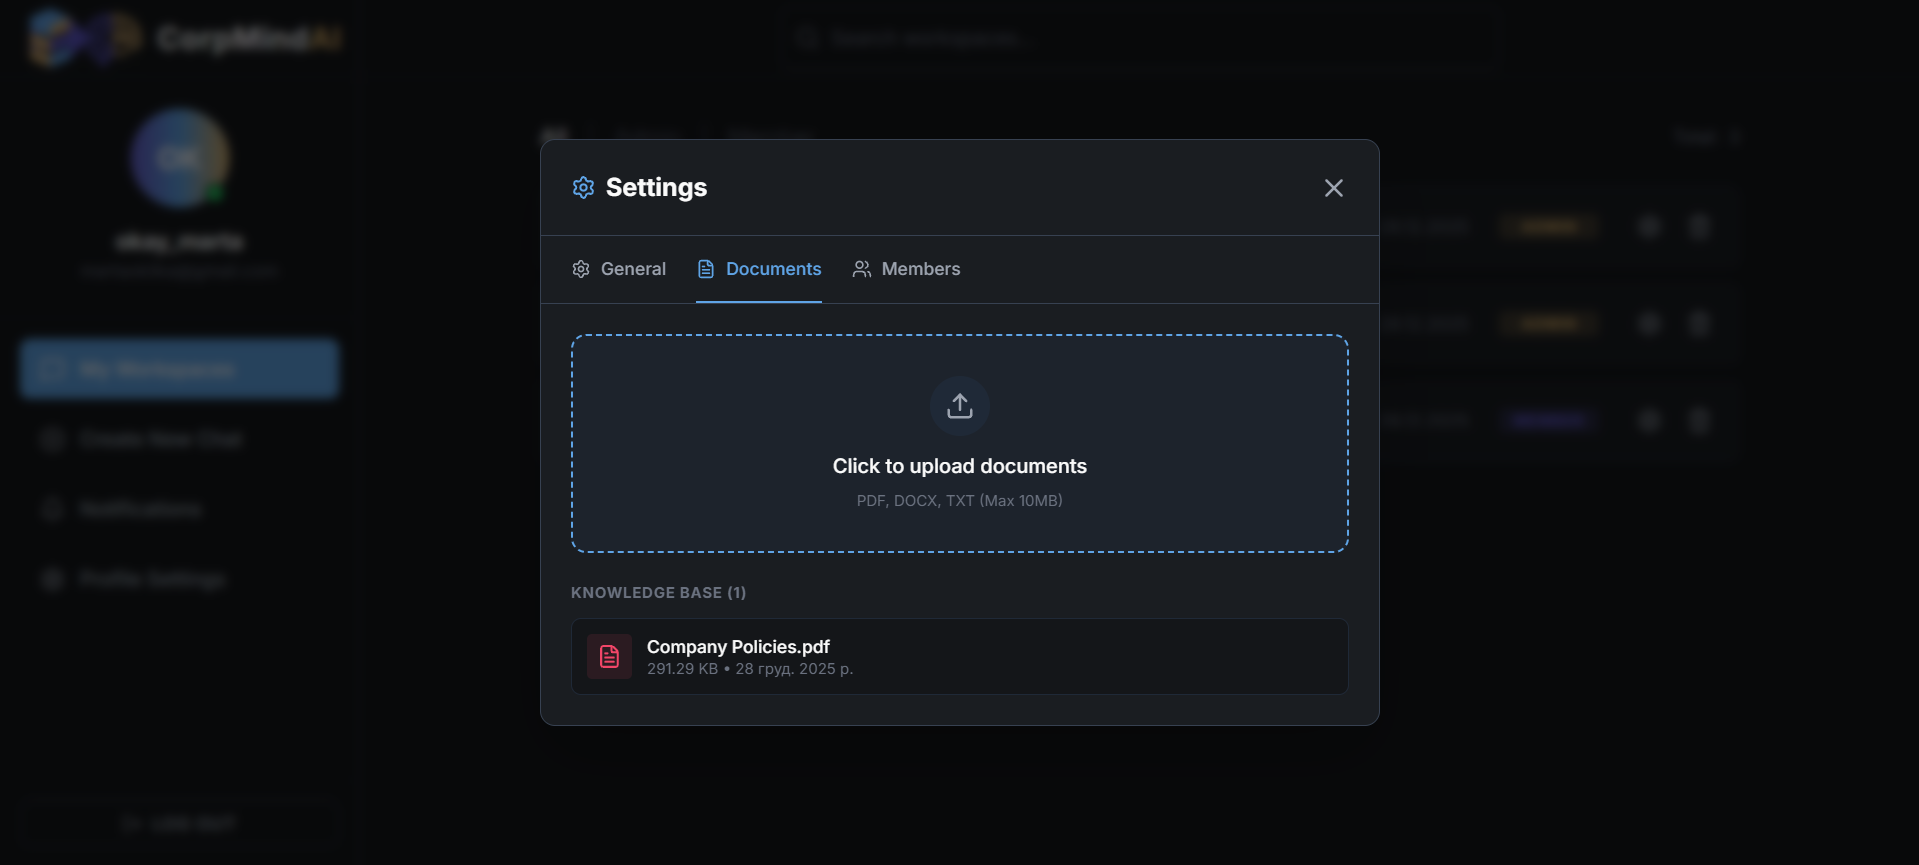
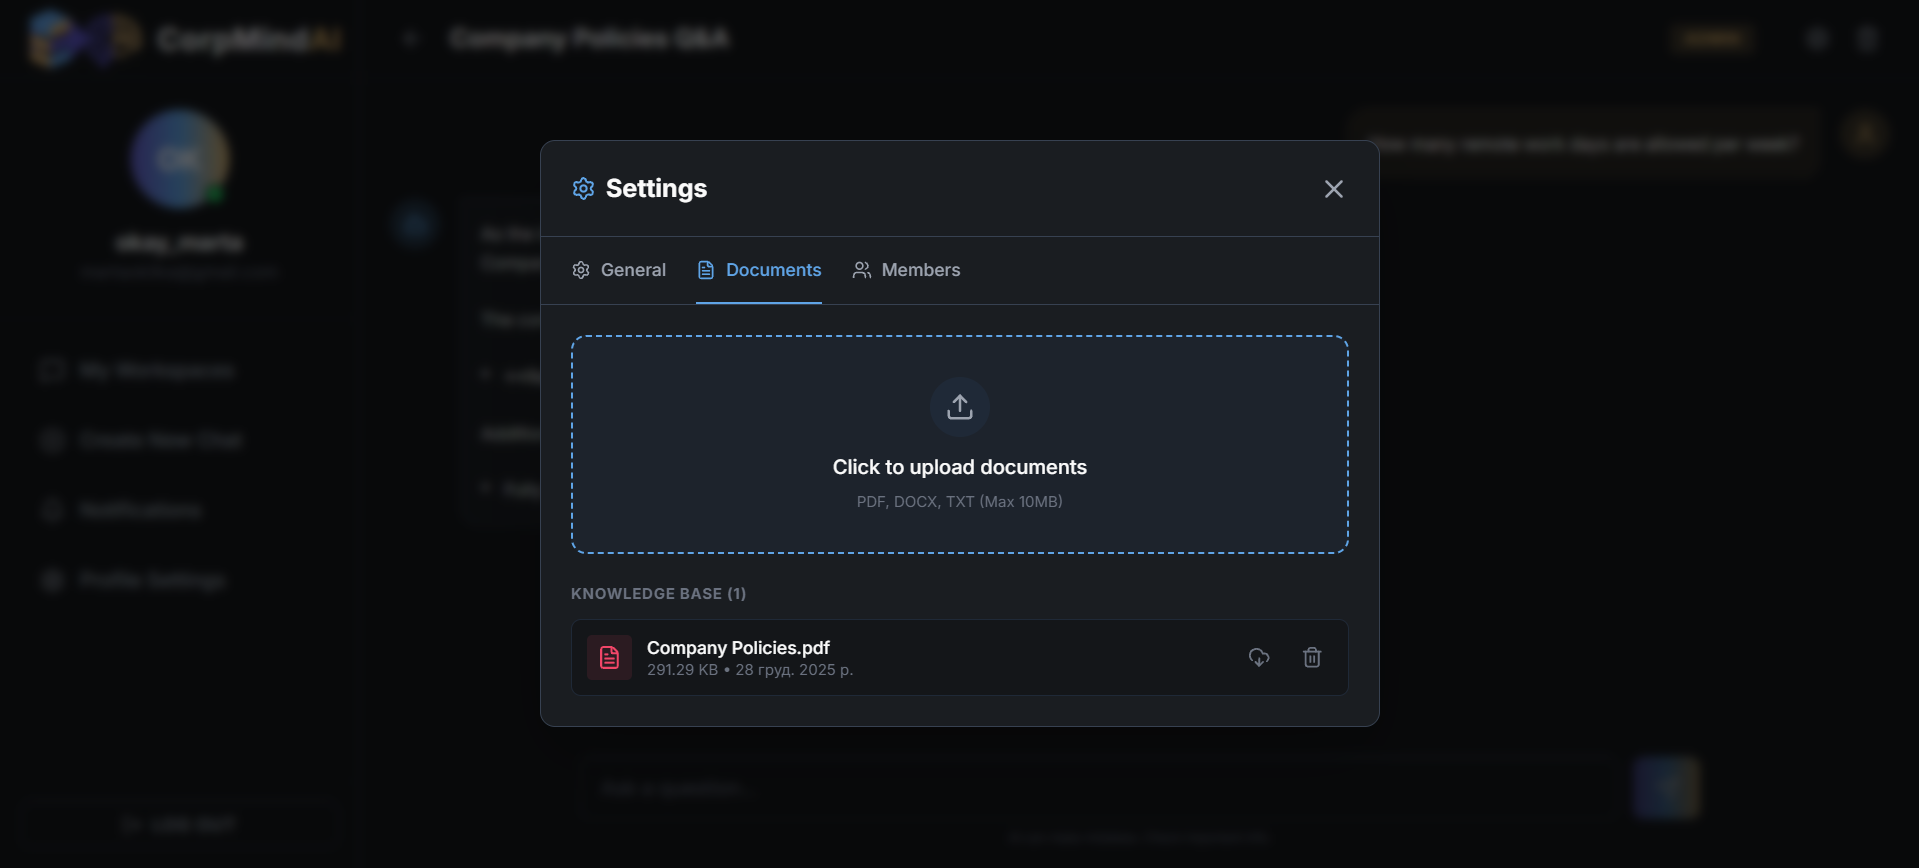
fix: secure file access and update document UI

diff --git a/client/src/features/documents/components/FileItem.jsx b/client/src/features/documents/components/FileItem.jsx
@@ -1,7 +1,9 @@
-import { FileText, File, Trash2 } from 'lucide-react';
+import { FileText, File, Trash2, DownloadCloud } from 'lucide-react';
 
 const FileItem = ({ file, onDelete, canDelete }) => {
-	// Форматування розміру файлу
+	// Отримуємо токен для безпечного посилання
+	const token = localStorage.getItem('token');
+
 	const formatSize = (bytes) => {
 		if (bytes === 0) return '0 B';
 		const k = 1024;
@@ -10,7 +12,6 @@ const FileItem = ({ file, onDelete, canDelete }) => {
 		return parseFloat((bytes / Math.pow(k, i)).toFixed(2)) + ' ' + sizes[i];
 	};
 
-	// Форматування дати
 	const formatDate = (dateString) => {
 		return new Date(dateString).toLocaleDateString(undefined, {
 			year: 'numeric',
@@ -21,10 +22,14 @@ const FileItem = ({ file, onDelete, canDelete }) => {
 
 	const isPdf = file.file_type?.includes('pdf');
 
+	// Формуємо безпечне ім'я файлу та посилання
+	const filename = file.filepath.split(/[/\\]/).pop();
+	const secureUrl = `/api/documents/file/${filename}?token=${token}`;
+
 	return (
 		<div className="flex items-center justify-between bg-dark p-3 rounded-lg border border-gray-800 hover:border-gray-600 transition-colors group">
+			{/* Ліва частина: Іконка + Текст */}
 			<div className="flex items-center gap-3 overflow-hidden">
-				{/* Іконка типу файлу */}
 				<div
 					className={`p-2 rounded ${
 						isPdf
@@ -35,30 +40,46 @@ const FileItem = ({ file, onDelete, canDelete }) => {
 					{isPdf ? <FileText size={20} /> : <File size={20} />}
 				</div>
 
-				{/* Інфо про файл */}
-				<div className="min-w-0">
-					<p
-						className="text-light text-sm font-medium truncate"
+				<div className="min-w-0 flex flex-col">
+					<a
+						href={secureUrl}
+						target="_blank"
+						rel="noopener noreferrer"
+						className="text-light text-sm font-medium truncate hover:text-blue hover:underline cursor-pointer"
 						title={file.filename}
 					>
 						{file.filename}
-					</p>
+					</a>
 					<p className="text-xs text-gray-500">
 						{formatSize(file.size)} • {formatDate(file.uploaded_at)}
 					</p>
 				</div>
 			</div>
 
-			{/* Кнопка видалення (тільки якщо є права) */}
-			{canDelete && (
-				<button
-					onClick={() => onDelete(file.id)}
-					className="p-2 text-gray-500 hover:text-uiError hover:bg-uiError/10 rounded-full transition-colors opacity-0 group-hover:opacity-100"
-					title="Delete document"
+			{/* Права частина: Кнопки дій */}
+			<div className="flex items-center gap-2">
+				{/* Кнопка скачування */}
+				<a
+					href={secureUrl}
+					target="_blank"
+					rel="noopener noreferrer"
+					className="p-2 text-gray-500 hover:text-light hover:bg-gray-700 rounded-full transition-colors"
+					title="Download"
 				>
-					<Trash2 size={18} />
-				</button>
-			)}
+					<DownloadCloud size={18} />
+				</a>
+
+				{/* Кнопка видалення */}
+				{canDelete && (
+					<button
+						onClick={() => onDelete(file.id)}
+						className="p-2 text-gray-500 hover:text-uiError hover:bg-uiError/10 rounded-full transition-colors"
+						title="Delete document"
+					>
+						<Trash2 size={18} />
+					</button>
+				)}
+			</div>
 		</div>
 	);
 };

diff --git a/server/controllers/documentController.js b/server/controllers/documentController.js
@@ -2,6 +2,7 @@ const pool = require('../config/db');
 const { processDocument } = require('../services/ragService');
 const { chromaClient } = require('../config/ai');
 const fs = require('fs');
+const path = require('path');
 
 const uploadDocument = async (req, res) => {
 	let newDocId = null;
@@ -159,4 +160,52 @@ const deleteDocument = async (req, res) => {
 	}
 };
 
-module.exports = { uploadDocument, getDocuments, deleteDocument };
+const serveDocument = async (req, res) => {
+	try {
+		const { filename } = req.params;
+		const userId = req.user.id;
+
+		// 1. Шукаємо документ у таблиці documents
+		const docResult = await pool.query(
+			'SELECT * FROM documents WHERE filepath LIKE $1',
+			[`%${filename}`]
+		);
+
+		if (docResult.rows.length === 0) {
+			return res.status(404).json('Document not found');
+		}
+
+		const doc = docResult.rows[0];
+
+		// 2. Перевірка доступу
+		const memberCheck = await pool.query(
+			'SELECT * FROM workspace_members WHERE workspace_id = $1 AND user_id = $2',
+			[doc.workspace_id, userId]
+		);
+
+		if (memberCheck.rows.length === 0) {
+			return res
+				.status(403)
+				.json('Access Denied: You are not a member of this workspace');
+		}
+
+		// 3. Віддаємо файл
+		const absolutePath = path.join(__dirname, '../uploads', filename);
+
+		if (fs.existsSync(absolutePath)) {
+			res.sendFile(absolutePath);
+		} else {
+			res.status(404).json('File physically not found on server');
+		}
+	} catch (err) {
+		console.error(err);
+		res.status(500).send('Server Error');
+	}
+};
+
+module.exports = {
+	uploadDocument,
+	getDocuments,
+	deleteDocument,
+	serveDocument,
+};

diff --git a/server/controllers/userController.js b/server/controllers/userController.js
@@ -88,4 +88,37 @@ const deleteAccount = async (req, res) => {
 	}
 };
 
-module.exports = { updateProfile, deleteAccount };
+const serveAvatar = async (req, res) => {
+	try {
+		const { filename } = req.params;
+
+		// 1. Перевіряємо, чи цей файл дійсно використовується як аватар кимось із юзерів
+		const avatarCheck = await pool.query(
+			'SELECT id FROM users WHERE avatar_url LIKE $1',
+			[`%${filename}`]
+		);
+
+		if (avatarCheck.rows.length === 0) {
+			return res.status(404).json('Avatar not found');
+		}
+
+		// 2. Віддаємо файл (AuthMiddleware вже пройшов перевірку токена)
+		const absolutePath = path.join(__dirname, '../uploads', filename);
+
+		if (fs.existsSync(absolutePath)) {
+			res.sendFile(absolutePath);
+		} else {
+			// Якщо у юзера посилання є, а файлу немає - повертаємо дефолтну заглушку або 404
+			res.status(404).json('Image not found');
+		}
+	} catch (err) {
+		console.error(err);
+		res.status(500).send('Server Error');
+	}
+};
+
+module.exports = {
+	updateProfile,
+	deleteAccount,
+	serveAvatar,
+};

diff --git a/client/src/features/profile/components/ProfileSettingsModal.jsx b/client/src/features/profile/components/ProfileSettingsModal.jsx
@@ -162,7 +162,19 @@ const ProfileSettingsModal = ({ isOpen, onClose }) => {
 										>
 											{preview ? (
 												<img
-													src={preview}
+													src={
+														preview.startsWith(
+															'blob:'
+														)
+															? preview
+															: `/api/users/avatar/${preview
+																	.split(
+																		/[/\\]/
+																	)
+																	.pop()}?token=${localStorage.getItem(
+																	'token'
+															  )}`
+													}
 													alt="Avatar"
 													className="w-24 h-24 rounded-full object-cover border-4 border-dark2 shadow-lg group-hover:opacity-75 transition-opacity"
 												/>

diff --git a/client/src/components/ui/Avatar.jsx b/client/src/components/ui/Avatar.jsx
@@ -1,10 +1,22 @@
 const Avatar = ({ url, name, size = 'w-10 h-10', textSize = 'text-sm' }) => {
+	// 1. Отримуємо токен
+	const token = localStorage.getItem('token');
+
 	if (url) {
+		// 2. Витягуємо ім'я файлу зі шляху
+		const filename = url.split(/[/\\]/).pop();
+
+		// 3. Формуємо новий URL
+		const secureUrl = `/api/users/avatar/${filename}?token=${token}`;
+
 		return (
 			<img
-				src={url}
+				src={secureUrl}
 				alt={name || 'User'}
 				className={`${size} rounded-full object-cover border border-gray-700`}
+				onError={(e) => {
+					e.target.style.display = 'none';
+				}}
 			/>
 		);
 	}

diff --git a/server/index.js b/server/index.js
@@ -19,8 +19,6 @@ app.use('/api/chat', require('./routes/chat.routes'));
 app.use('/api/invitations', require('./routes/invitation.routes'));
 app.use('/api/users', require('./routes/user.routes'));
 
-app.use('/uploads', express.static(path.join(__dirname, 'uploads')));
-
 app.listen(PORT, () => {
 	console.log(`Server running on port ${PORT}`);
 });

diff --git a/server/routes/document.routes.js b/server/routes/document.routes.js
@@ -35,7 +35,9 @@ router.post(
 	},
 	documentController.uploadDocument
 );
+
 router.get('/:workspaceId', documentController.getDocuments);
+router.get('/file/:filename', documentController.serveDocument);
 router.delete('/:id', documentController.deleteDocument);
 
 module.exports = router;

diff --git a/server/middlewares/authMiddleware.js b/server/middlewares/authMiddleware.js
@@ -3,7 +3,7 @@ require('dotenv').config();
 
 module.exports = async (req, res, next) => {
 	try {
-		const jwtToken = req.header('token');
+		const jwtToken = req.header('token') || req.query.token;
 
 		if (!jwtToken) {
 			return res.status(403).json('Not Authorized');

diff --git a/server/routes/user.routes.js b/server/routes/user.routes.js
@@ -16,5 +16,6 @@ router.put(
 );
 
 router.delete('/profile', userController.deleteAccount);
+router.get('/avatar/:filename', userController.serveAvatar);
 
 module.exports = router;
